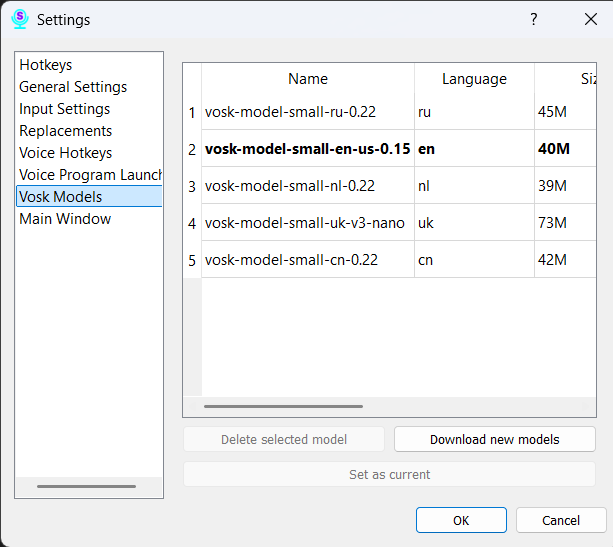
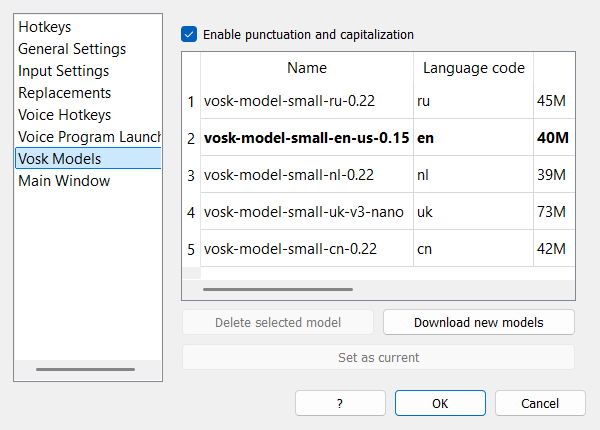
Document punctuation and capitalization, refresh Models screenshot

diff --git a/docs/14_punctuation.md b/docs/14_punctuation.md
@@ -1,0 +1,135 @@
+# Section 14: Punctuation and Capitalization
+
+Scribe can turn a stream of plain recognized words into readable text: it adds punctuation marks and capital letters automatically, entirely on your computer. No audio or text is sent anywhere.
+
+![Enable punctuation and capitalization](images/vosk_model_setting_page.png)
+
+### Turning the Feature On and Off
+
+The checkbox **Enable punctuation and capitalization** is located at the top of the **Models** settings tab (see [Section 11](./11_settings_vosk_models.md)).
+
+*   It is **enabled by default** in new installations.
+*   When enabled, Scribe processes only the **final** recognition result. Intermediate "draft" text stays raw, so nothing flickers while you speak.
+*   When disabled, Scribe inserts what the speech recognition model produced, with no marks and no case changes (your own replacement rules still apply).
+
+### What Each Language Gets
+
+| Language | Automatic marks | Capitalization |
+| --- | --- | --- |
+| Russian (`ru`) | Offline neural model: `.` `,` `?` `!` `:` `...` | Sentence starts and proper nouns (via morphology dictionaries) |
+| English (`en`) | Offline neural model: `.` `,` `?` `!` `:` `...` | Sentence starts and most capitalization |
+| Ukrainian (`uk`) | None (spoken commands only) | Sentence starts; proper nouns shared with the Russian dictionary |
+| All other languages | None (spoken commands only) | Sentence starts: first word after `.` `!` `?` `...` |
+
+The feature works fully offline. The neural models run on the CPU with ONNX Runtime and are downloaded on demand.
+
+### Pauses Are Not Sentence Ends
+
+Vosk finalizes text whenever you pause, even in the middle of a sentence. Scribe treats those boundaries as **soft**:
+
+*   The terminal period that the punctuation model adds to every chunk is removed.
+*   The first word of a continuation stays lowercase instead of being capitalized.
+*   A real sentence ends only with:
+    *   `?`, `!` or `...`;
+    *   an explicit **Enter** inserted by a replacement rule;
+    *   a spoken sentence-ending mark such as "period" or "question mark" (see below).
+
+For example, if you dictate this with a thinking pause between "погода" and "и":
+
+```
+сегодня хорошая погода  [pause]  и мы пойдём гулять
+```
+
+you get one sentence:
+
+```
+Сегодня хорошая погода и мы пойдём гулять.
+```
+
+Without soft boundaries the same dictation used to become two sentences: `Сегодня хорошая погода. И мы пойдём гулять.`
+
+### Lowercase After `,` `:` `;` `—`
+
+For Russian and Ukrainian, a word after a comma, colon, semicolon or em dash starts with a lowercase letter, following normal typography. Proper nouns keep their capital letter. This rule is applied after the neural model, so it also fixes occasional model mistakes.
+
+In English this rule is not applied: the case after a comma is whatever the model produced.
+
+### Dictating Punctuation by Voice
+
+You can insert marks explicitly with the **Replacements** feature (see [Section 8](./08_settings_replacements.md)). Create rules for the words you want to speak, and use `[Backspace]` to remove the space before the mark.
+
+Typical Russian rules:
+
+| What to replace | What to replace with |
+| --- | --- |
+| `точка` | `[Backspace].` |
+| `запятая` | `[Backspace],` |
+| `вопросительный знак` | `[Backspace]?` |
+| `восклицательный знак` | `[Backspace]!` |
+| `новая строка` | `[Backspace][Enter]` |
+
+Typical English rules:
+
+| What to replace | What to replace with |
+| --- | --- |
+| `period` | `[Backspace].` |
+| `comma` | `[Backspace],` |
+| `question mark` | `[Backspace]?` |
+| `exclamation mark` | `[Backspace]!` |
+| `new line` | `[Backspace][Enter]` |
+
+Spoken marks take priority over the automatic ones: if the model already added a comma and you then say "period", Scribe removes the comma and leaves a single period. An Enter starts a new sentence, so the next word is capitalized.
+
+### Model Files
+
+Punctuation models live in the `models/punct/` folder next to the program:
+
+```
+models/
+└── punct/
+    ├── ru/                  Russian model
+    │   ├── model.int8.onnx
+    │   ├── tokenizer.json
+    │   └── model.json
+    └── en/                  English model
+        ├── model.int8.onnx
+        ├── tokenizer.json
+        └── model.json
+```
+
+*   The models are **not bundled** into `Scribe.exe`; they are downloaded automatically on first run for the selected recognition language.
+*   The Russian model is **RUPunct_big int8** (about 170 MB). The English model is an export of `felflare/bert-restore-punctuation` int8 (about 105 MB). Both are MIT-licensed and hosted on Hugging Face under [AIgrator](https://huggingface.co/AIgrator).
+*   The catalog of downloadable files is [`punct_models.json`](https://github.com/AIgrator/Scribe/blob/main/punct_models.json).
+*   If the download fails or you are offline, Scribe continues to work in rules-only mode: sentence capitalization still works, but automatic commas and question marks are not added.
+
+To force a fresh download of a model, close Scribe, delete its folder (for example `models/punct/ru`), and start the program again.
+
+### Advanced Settings
+
+The feature has no extra controls in the interface, but a few values can be changed in `settings.json`:
+
+| Key | Default | Meaning |
+| --- | --- | --- |
+| `enable_punctuation` | `true` | Same as the checkbox on the Models page |
+| `punct_confidence` | `0.5` | Minimum probability for a mark. Raise it for fewer, more reliable marks; `0.0` accepts the model's best guess |
+| `punct_context_words` | `30` | How many previous words are fed to the model as context |
+| `punctuation_model_dir` | `""` | Custom model folder; empty means `models/punct/<language>` |
+
+Close Scribe before editing the file. Delete `settings.json` to return to the defaults.
+
+### Troubleshooting
+
+**No punctuation appears.**
+Check that **Enable punctuation and capitalization** is on, and that the correct recognition language is selected. For Russian and English, make sure the model folder exists in `models/punct/` and is not empty; if not, restart Scribe while online.
+
+**Marks appear, but too rarely or too often.**
+Adjust `punct_confidence` in `settings.json`: a higher value (for example `0.6`) removes uncertain marks, a lower value (`0.3`) adds more.
+
+**A pause still breaks the sentence.**
+The soft-boundary behavior removes only a lone terminal period. A question mark, exclamation mark or ellipsis is treated as a real sentence end, and a spoken punctuation command or Enter also starts a new sentence by design.
+
+**An English name lost its capital letter after a pause.**
+English proper-noun detection relies on Russian/Ukrainian morphology dictionaries, so a name at the start of a continuation can occasionally be lowercased. Capitalize it manually, or turn the feature off for that dictation.
+
+**The Russian model is still the old, smaller one.**
+The model is only downloaded when the folder is missing. Delete `models/punct/ru` once and restart Scribe to download RUPunct_big.

diff --git a/README.md b/README.md
@@ -9,6 +9,7 @@ Scribe is a versatile tool designed to integrate voice commands and transcriptio
 ## Key Features
 
 *   **Real-Time Transcription:** Dictate text directly into any application with high accuracy.
+*   **Punctuation and Capitalization:** Automatic `. , ? ! :` and capital letters for Russian and English, with basic sentence capitalization for every other language. Fully offline and enabled by default.
 *   **Command Mode:** Execute actions using custom voice commands.
 *   **Offline and Private:** All voice processing happens locally on your machine. No data is ever sent to the cloud.
 *   **Lightweight Performance:** Low CPU usage, especially when using small Vosk models, ensuring smooth operation without slowing down your system.
@@ -17,6 +18,18 @@ Scribe is a versatile tool designed to integrate voice commands and transcriptio
 *   **Text Replacements:** Define custom words or phrases that automatically expand into longer text snippets (e.g., "my email" -> "my.address@example.com").
 *   **Voice-Activated Program Launch:** Set up voice commands to open any application or file on your computer.
 *   **Flexible Configuration:** Fine-tune input methods (keyboard typing vs. clipboard paste), tray icon appearance, and window behavior to match your preferences.
+
+## Punctuation and Capitalization
+
+Scribe can punctuate dictation on its own: marks and capital letters are added to the final text, entirely on your machine.
+
+*   **Russian and English** use a compact offline neural model (ONNX int8, CPU inference). It inserts `. , ? ! :` and ellipsis, and restores capitalization.
+*   **Other languages** get rule-based sentence capitalization: the first word of a sentence is capitalized after `. ! ? ...`.
+*   **Pauses are not sentence ends.** Vosk commits text on short pauses; Scribe treats those boundaries as soft and does not insert a period or start a new sentence there. A sentence really ends with `?`, `!`, `...`, an explicit Enter, or a spoken sentence-ending mark.
+*   **Lowercase after `,` `:` `;` `—`** for Russian and Ukrainian, while proper nouns keep their capitals.
+*   Models download automatically on first run into `models/punct/<language>/` and are never bundled into the executable. If the model is missing or you are offline, Scribe falls back to basic capitalization rules.
+
+The feature is controlled by **Enable punctuation and capitalization** on the **Models** settings page. It is on by default; turn it off to get raw Vosk output. See the [punctuation guide](docs/14_punctuation.md) for details, voice punctuation commands, and troubleshooting.
 
 ## Getting Started
 

diff --git a/docs/13_faq.md b/docs/13_faq.md
@@ -22,6 +22,18 @@
 **Q: How do I reset all settings to default?**
 **A:** Close the program, then delete the `settings.json` file. The next time you launch the program, it will create a new file with default settings.
 
+**Q: Does Scribe add punctuation and capital letters?**
+**A:** Yes. The **Enable punctuation and capitalization** checkbox on the Models settings page is on by default. Russian and English use a small offline neural model; other languages get basic sentence capitalization. See [Section 14: Punctuation and Capitalization](./14_punctuation.md).
+
+**Q: A short pause splits my sentence and starts a new one.**
+**A:** Update to version 1.3.1 or newer. Pauses are now treated as soft boundaries: no period is added and the continuation stays lowercase. Only `?`, `!`, `...`, Enter, or a spoken sentence-ending mark end a sentence.
+
+**Q: How do I dictate a comma, period, or question mark?**
+**A:** Create rules on the Replacements tab, for example "comma" -> `[Backspace],` or "question mark" -> `[Backspace]?`. Ready-to-use examples are in [Section 14](./14_punctuation.md#dictating-punctuation-by-voice).
+
+**Q: Does punctuation work without internet?**
+**A:** Yes, once the language model has been downloaded. Scribe downloads it automatically on first run into `models/punct/<language>/`. If the model is missing, basic capitalization rules still work offline.
+
 **Q: How do I uninstall the program?**
 **A:** The program does not have an installer. To uninstall it, simply delete the folder where you extracted it.
 

diff --git a/docs/11_settings_vosk_models.md b/docs/11_settings_vosk_models.md
@@ -4,6 +4,18 @@ This tab is your command center for speech recognition models. Here you can view
 
 ![Vosk Models Settings](images/vosk_model_setting_page.png)
 
+### Punctuation and Capitalization
+
+At the top of the tab there is a checkbox: **Enable punctuation and capitalization**.
+
+*   It is **on by default**, so new installations get punctuated text right away.
+*   When it is on, Scribe adds `. , ? ! :` and capital letters to the final recognition result using offline models for **Russian** and **English**, and basic capitalization rules for all other languages.
+*   When it is off, you get the raw Vosk transcript, with no automatic marks or case changes.
+
+The matching punctuation model is downloaded automatically on first run into `models/punct/<language>/`. It is not stored inside `Scribe.exe`, and Scribe keeps working without it by falling back to simple capitalization rules.
+
+For a full description of the feature — how pauses are handled, how to dictate punctuation by voice, and what to do if marks do not appear — see [Section 14: Punctuation and Capitalization](./14_punctuation.md).
+
 ### List of Installed Models
 
 The main part of the screen is occupied by a table with the models already on your computer. It displays all the key information:

diff --git a/docs/01_introduction.md b/docs/01_introduction.md
@@ -6,7 +6,7 @@ Scribe is your free personal assistant for Windows that transforms your voice in
 
 ### Key Features:
 
-*   **Speech-to-Text:** Dictate text in real-time in any text field, with smart auto-replacement for punctuation and frequently used phrases.
+*   **Speech-to-Text:** Dictate text in real-time in any text field, with automatic offline punctuation and capitalization for Russian and English, plus smart auto-replacement for frequently used phrases.
 *   **Voice Control:** Launch programs, open files, and emulate keyboard shortcuts using custom voice commands.
 *   **CPU Optimized:** The program efficiently uses your processor's resources, running quickly without slowing down your system.
 *   **Fully Customizable:** Configure hotkeys, performance, text input methods, and the application's appearance, including light and dark themes. Scribe is designed to provide maximum control and customization, allowing you to tailor it to your specific needs.

diff --git a/docs/index.md b/docs/index.md
@@ -17,3 +17,4 @@ This documentation will help you understand, configure, and master all the featu
 11. [Settings: Vosk Models](./11_settings_vosk_models.md)
 12. [Settings: Main Window](./12_settings_main_window.md)
 13. [Troubleshooting and FAQ](./13_faq.md)
+14. [Punctuation and Capitalization](./14_punctuation.md)
